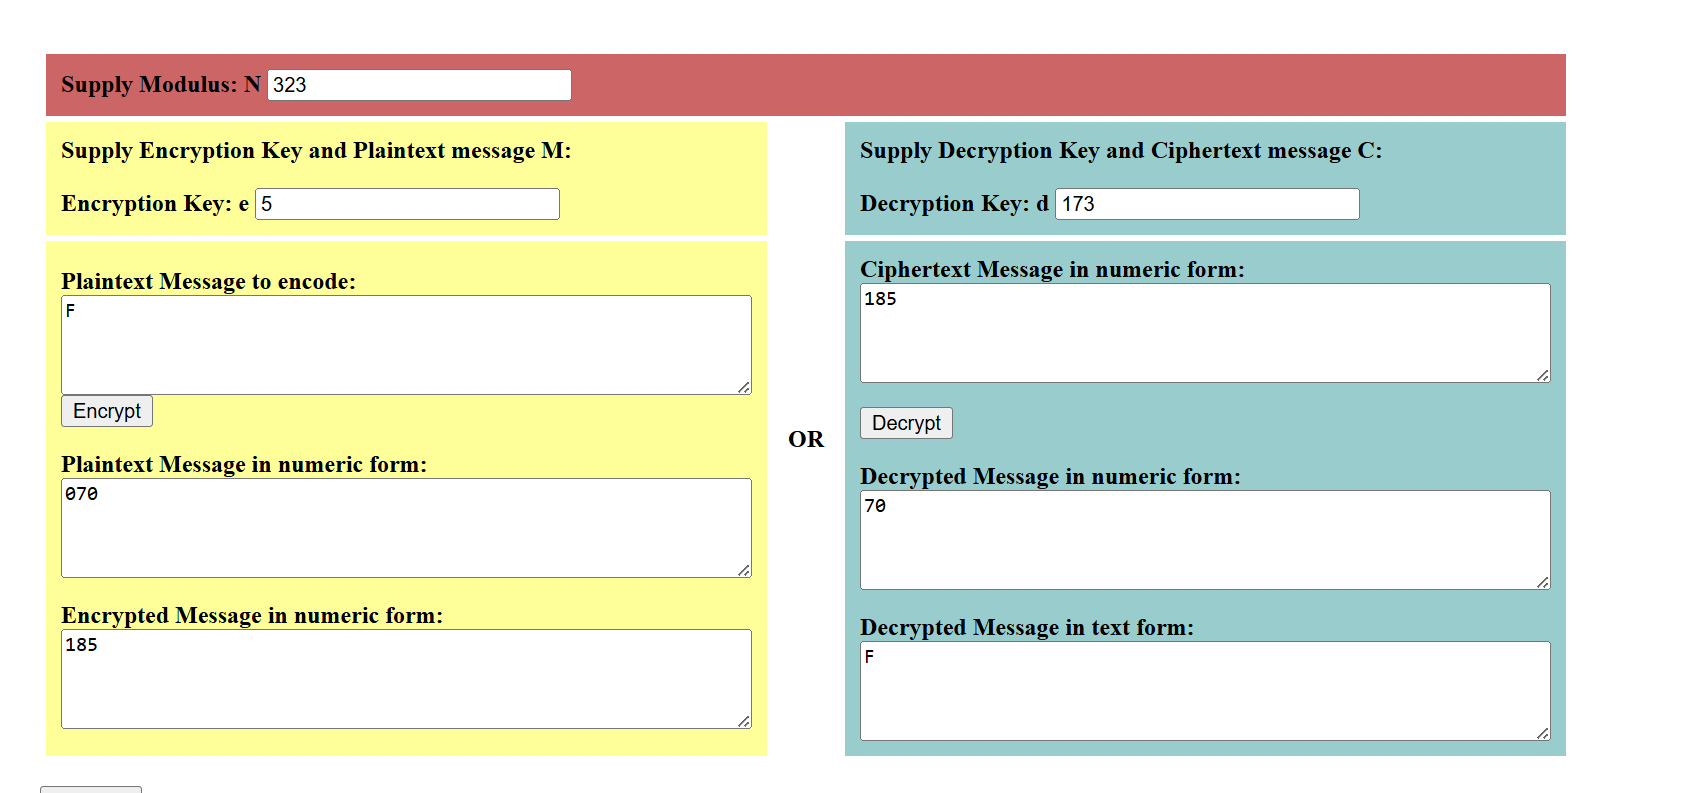
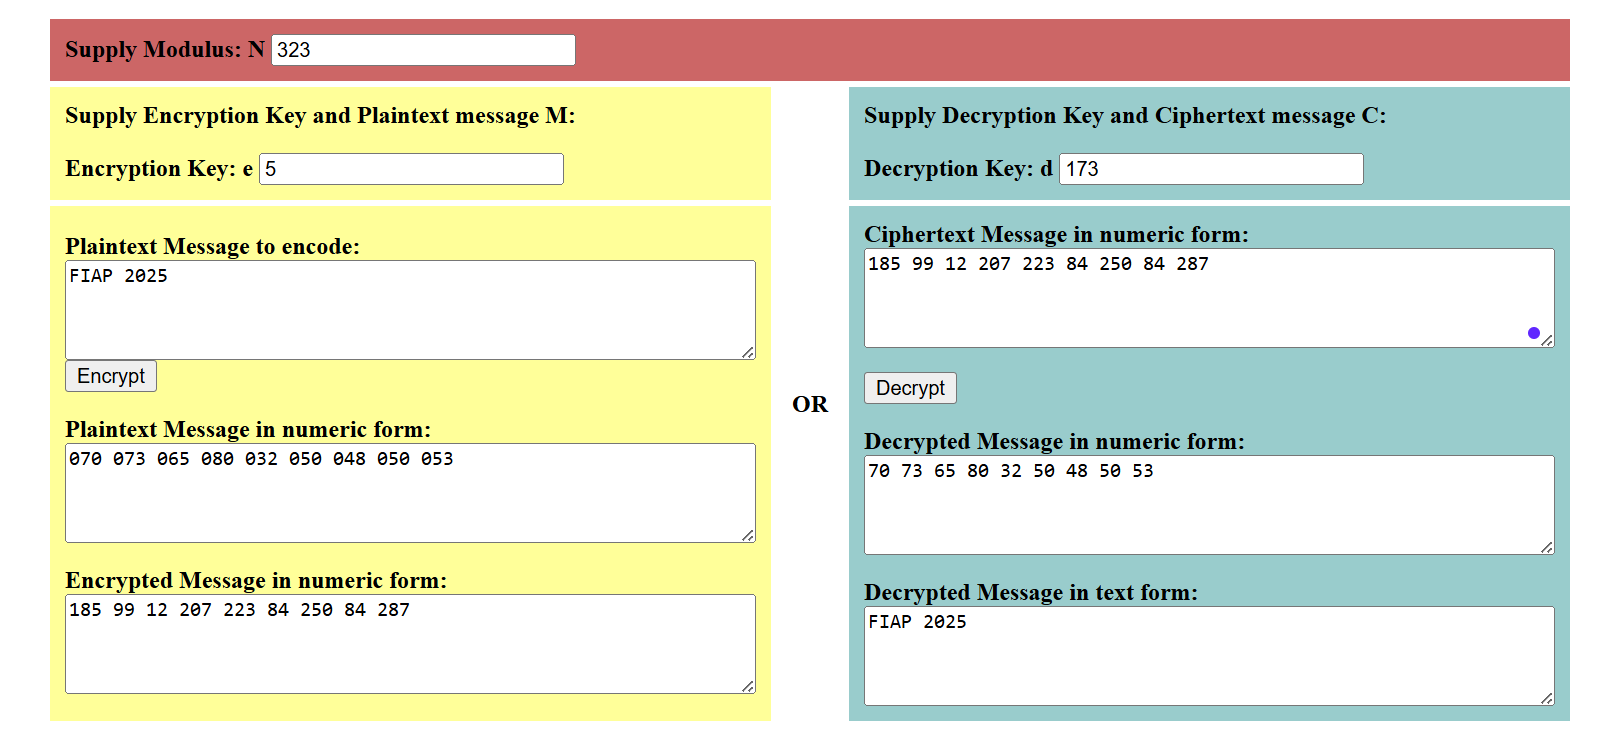
Adicionando imagem e atualizado readme

diff --git a/README.md b/README.md
@@ -71,4 +71,4 @@ Conforme solicitado, foi realizado um teste de validação com o simulador **RSA
 * **Mensagem Original:** FIAP 2025
 * **Mensagem Criptografada (gerada pelo nosso programa):** 185 99 12 207 223 84 250 84 287
 
-**(Adicione aqui o print da tela do simulador da Drexel University)**
+![Tela do Cliente em Execução](https://raw.githubusercontent.com/ArthurBispo00/CP5-PART1-Server/master/imagem_tela_drexel.png)
